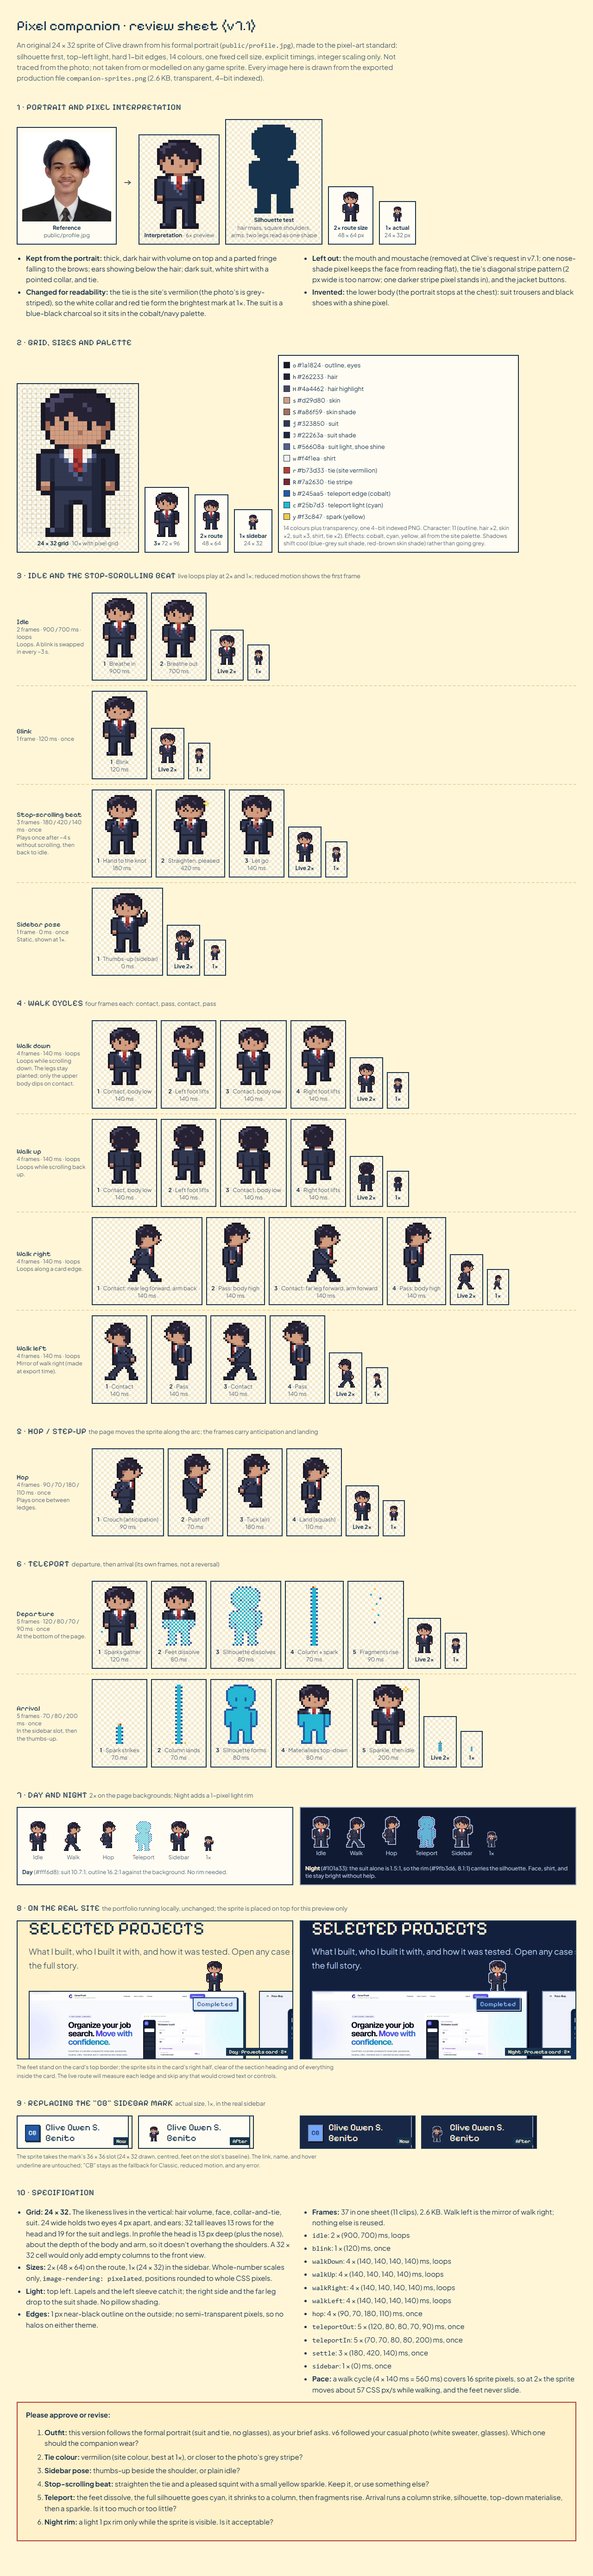
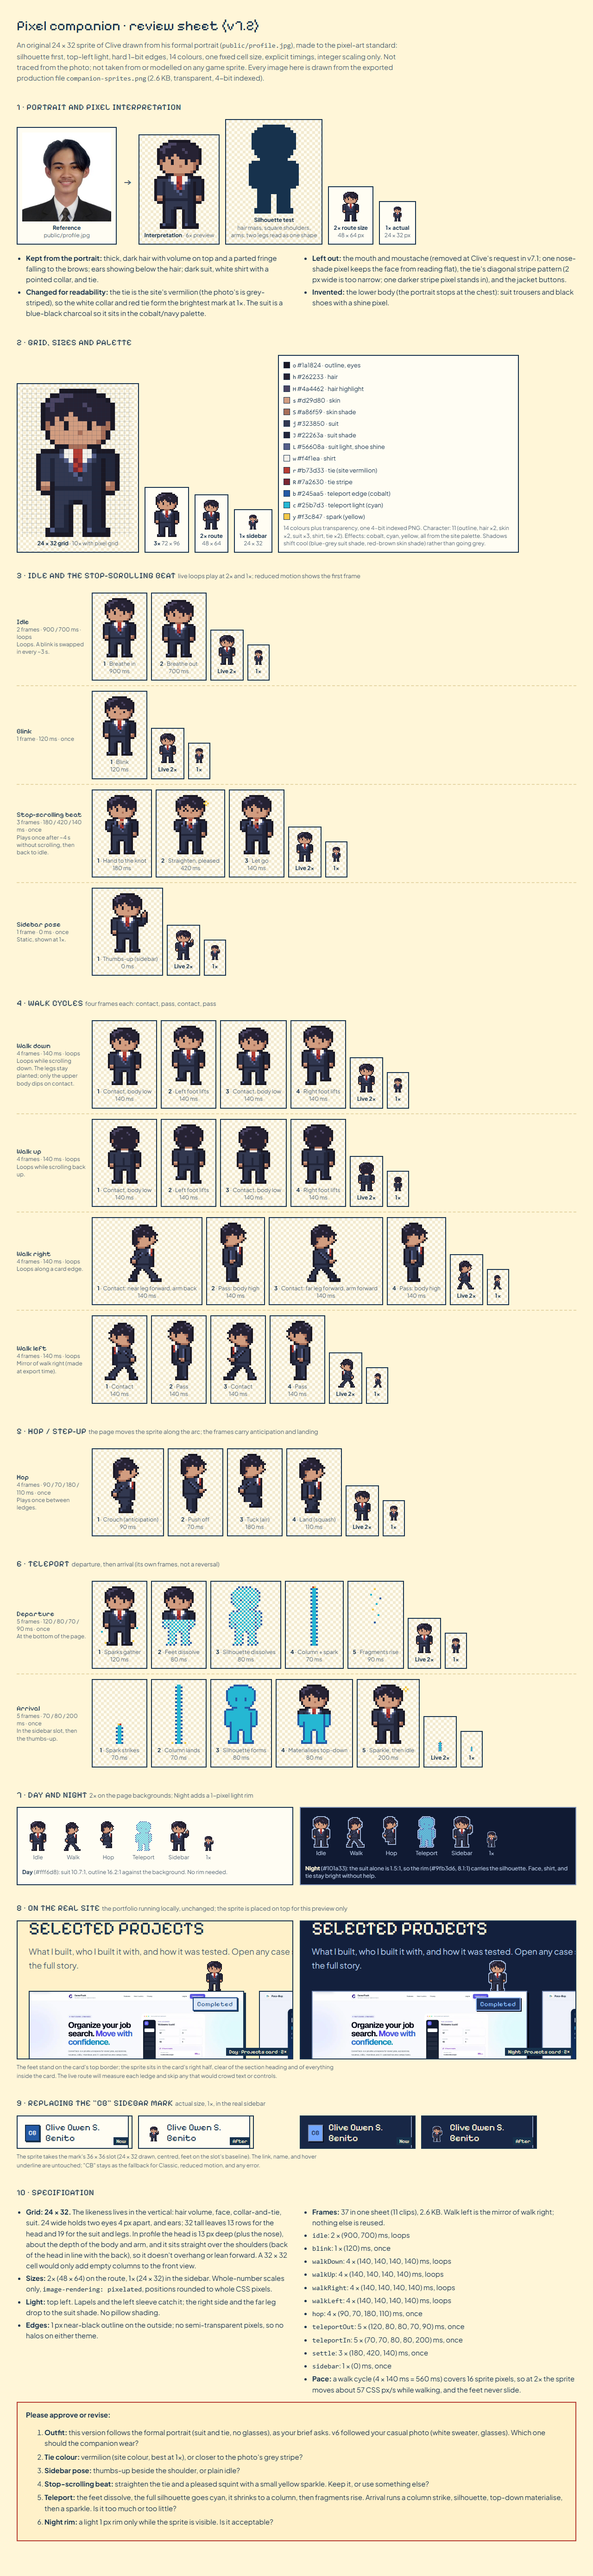
docs(design): update companion review sheet to v7.2

diff --git a/docs/design/companion/companion-review-sheet.html b/docs/design/companion/companion-review-sheet.html
@@ -3,7 +3,7 @@
 <head>
 <meta charset="utf-8">
 <meta name="viewport" content="width=device-width, initial-scale=1">
-<title>Pixel companion review (v7.1)</title>
+<title>Pixel companion review (v7.2)</title>
 <!--
   Review sheet for the companion sprite. Open it through the dev server
   (npm run dev → /docs/design/companion/companion-review-sheet.html): the
@@ -59,7 +59,7 @@
 </head>
 <body>
 <main>
-  <h1>Pixel companion · review sheet (v7.1)</h1>
+  <h1>Pixel companion · review sheet (v7.2)</h1>
   <p class="lede">An original 24 × 32 sprite of Clive drawn from his formal portrait (<code>public/profile.jpg</code>), made to the pixel-art standard: silhouette first, top-left light, hard 1-bit edges, 14 colours, one fixed cell size, explicit timings, integer scaling only. Not traced from the photo; not taken from or modelled on any game sprite. Every image here is drawn from the exported production file <code>companion-sprites.png</code> (2.6 KB, transparent, 4-bit indexed).</p>
 
   <h2>1 · Portrait and pixel interpretation</h2>
@@ -135,7 +135,7 @@
   <h2>10 · Specification</h2>
   <div class="cols">
     <ul>
-      <li><b>Grid: 24 × 32.</b> The likeness lives in the vertical: hair volume, face, collar-and-tie, suit. 24 wide holds two eyes 4 px apart, and ears; 32 tall leaves 13 rows for the head and 19 for the suit and legs. In profile the head is 13 px deep (plus the nose), about the depth of the body and arm, so it doesn't overhang the shoulders. A 32 × 32 cell would only add empty columns to the front view.</li>
+      <li><b>Grid: 24 × 32.</b> The likeness lives in the vertical: hair volume, face, collar-and-tie, suit. 24 wide holds two eyes 4 px apart, and ears; 32 tall leaves 13 rows for the head and 19 for the suit and legs. In profile the head is 13 px deep (plus the nose), about the depth of the body and arm, and it sits straight over the shoulders (back of the head in line with the back), so it doesn't overhang or lean forward. A 32 × 32 cell would only add empty columns to the front view.</li>
       <li><b>Sizes:</b> 2× (48 × 64) on the route, 1× (24 × 32) in the sidebar. Whole-number scales only, <code>image-rendering: pixelated</code>, positions rounded to whole CSS pixels.</li>
       <li><b>Light:</b> top left. Lapels and the left sleeve catch it; the right side and the far leg drop to the suit shade. No pillow shading.</li>
       <li><b>Edges:</b> 1 px near-black outline on the outside; no semi-transparent pixels, so no halos on either theme.</li>
